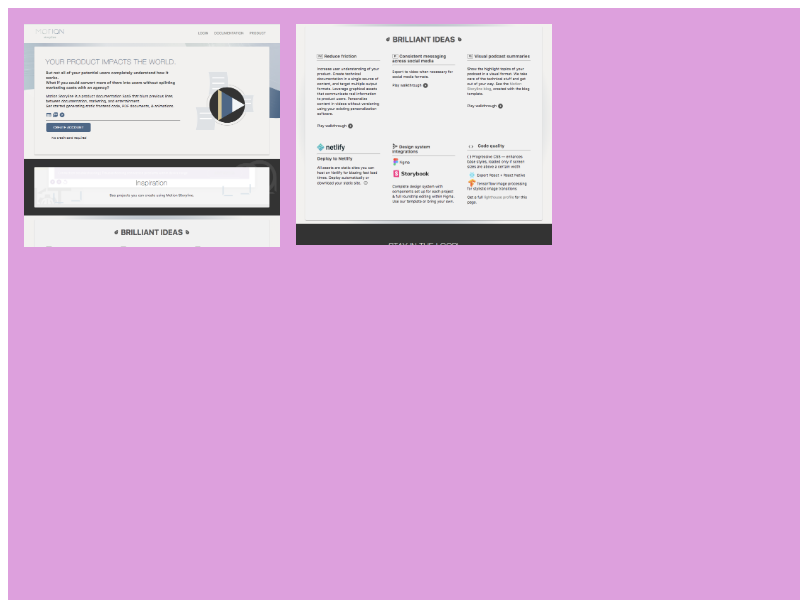
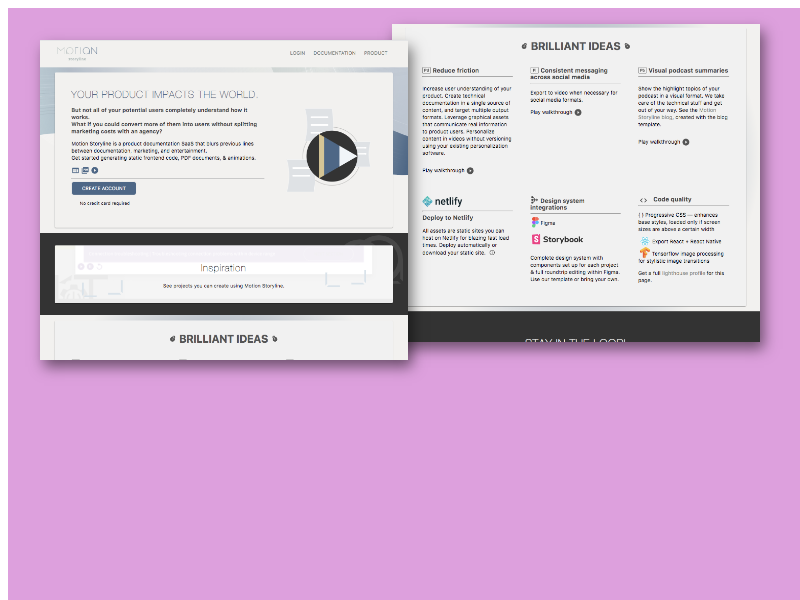
added basic shadows

diff --git a/public/css/style.css b/public/css/style.css
@@ -11,116 +11,126 @@
     padding: 1rem;
 }
 .ex2 .box {
-flex: 1 1 150px; /*  Stretching: */
-flex: 0 1 150px; /*  No stretching: */
-margin: 5px;
+    flex: 1 1 150px; /*  Stretching: */
+    flex: 0 1 150px; /*  No stretching: */
+    margin: 5px;
 }
 .ex3 .parent {
-display: grid;
-grid-template-columns: minmax(150px, 25%) 1fr;
+    display: grid;
+    grid-template-columns: minmax(150px, 25%) 1fr;
 }
 .ex4 .parent {
-display: grid;
-grid-template-rows: auto 1fr auto;
+    display: grid;
+    grid-template-rows: auto 1fr auto;
 }
 .ex5 .parent {
-display: grid;
-grid-template: auto 1fr auto / auto 1fr auto;
+    display: grid;
+    grid-template: auto 1fr auto / auto 1fr auto;
 }
 .ex5 header {
-padding: 2rem;
-grid-column: 1 / 4;
+    padding: 2rem;
+    grid-column: 1 / 4;
 }
 .ex5 .left-side {
-grid-column: 1 / 2;
+    grid-column: 1 / 2;
 }
 .ex5 main {
-grid-column: 2 / 3;
+    grid-column: 2 / 3;
 }
 .ex5 .right-side {
-grid-column: 3 / 4;
+    grid-column: 3 / 4;
 }
 .ex5 footer {
-grid-column: 1 / 4;
+    grid-column: 1 / 4;
 }
 .ex6 .parent {
-display: grid;
-grid-template-columns: repeat(12, 1fr);
+    display: grid;
+    grid-template-columns: repeat(12, 1fr);
 }
 .ex6 .span-12 {
-grid-column: 1 / span 12;
+    grid-column: 1 / span 12;
 }
 .ex6 .span-6 {
-grid-column: 1 / span 6;
+    grid-column: 1 / span 6;
 }
 .ex6 .span-4 {
-grid-column: 4 / span 4;
+    grid-column: 4 / span 4;
 }
 .ex6 .span-2 {
-grid-column: 3 / span 2;
+    grid-column: 3 / span 2;
 }
 /* centering text */
 .ex6 .section {
-display: grid;
-place-items: center;
-text-align: center
+    display: grid;
+    place-items: center;
+    text-align: center
 }
 .ex7 .parent {
-display: grid;
-grid-gap: 1rem;
-grid-template-columns: repeat(auto-fit, minmax(150px, 1fr));
+    display: grid;
+    grid-gap: 1rem;
+    grid-template-columns: repeat(auto-fit, minmax(150px, 1fr));
 }
 .ex8 .parent {
-height: auto;
-display: grid;
-grid-template-columns: repeat(2, 1fr);
+    height: auto;
+    display: grid;
+    grid-template-columns: repeat(2, 1fr);
 }
 .ex8 .visual {
-height: 100px;
-width: 100%;
+    height: 100px;
+    width: 100%;
 }
 .ex8 .card {
-display: flex;
-flex-direction: column;
-justify-content: space-between;
+    display: flex;
+    flex-direction: column;
+    justify-content: space-between;
 }
 .ex8 h3 {
-margin: 0
+    margin: 0
 }
 .ex9 .parent {
-display: grid;
-place-items: center;
+    display: grid;
+    place-items: center;
 }
 .ex9 .card {
-width: clamp(23ch, 50%, 46ch);
-display: flex;
-flex-direction: column;
-padding: 1rem;
+    width: clamp(23ch, 50%, 46ch);
+    display: flex;
+    flex-direction: column;
+    padding: 1rem;
 }
 .ex9 .visual {
-height: 125px;
-width: 100%;
+    height: 125px;
+    width: 100%;
 }
 .ex10 .parent {
-display: grid;
-place-items: center;
+    display: grid;
+    place-items: center;
 }
 .ex10 .visual {
-aspect-ratio: 16 / 9;
+    aspect-ratio: 16 / 9;
 }
 .ex10 .card {
-width: 50%;
-display: flex;
-flex-direction: column;
-padding: 1rem;
+    width: 50%;
+    display: flex;
+    flex-direction: column;
+    padding: 1rem;
 }
 img {
     max-width: 100%;
 }
 .overlay {
-position: absolute;
-top: 0;
-bottom: 0;
-right: 0;
-left: 0;
+    position: absolute;
+    top: 0;
+    bottom: 0;
+    right: 0;
+    left: 0;
+}
+.background {
+    background: plum;
+    width: 100vw;
+    height: 100vh;
+}
+.shadow {
+    -webkit-box-shadow: 4px 7px 13px 0px rgba(0,0,0,0.5);
+-moz-box-shadow: 4px 7px 13px 0px rgba(0,0,0,0.5);
+box-shadow: 4px 7px 13px 0px rgba(0,0,0,0.5);
 }

diff --git a/public/composite-image-template/index.html b/public/composite-image-template/index.html
@@ -2,21 +2,14 @@
 
 <head>
     <link rel="stylesheet" href="../css/style.css"> 
-    <style>
-        .background {
-            background: plum;
-            width: 100vw;
-            height: 100vh;
-        }
-    </style>
 </head>
 
 <div class="background ex2">
     <div class="parent">
         <div class="ex8">
             <div class="parent">
-                <img class="card" src="../images/upper.png" />
-                <img class="card" style="margin-top: -1rem;" src="../images/lower.png" />
+                <img class="card shadow" style="margin-right: -1rem; z-index: 10" src="../images/upper.png" />
+                <img class="card shadow" style="margin-top: -2rem; margin-left: -1rem;" src="../images/lower.png" />
             </div>
         </div>
     </div>
